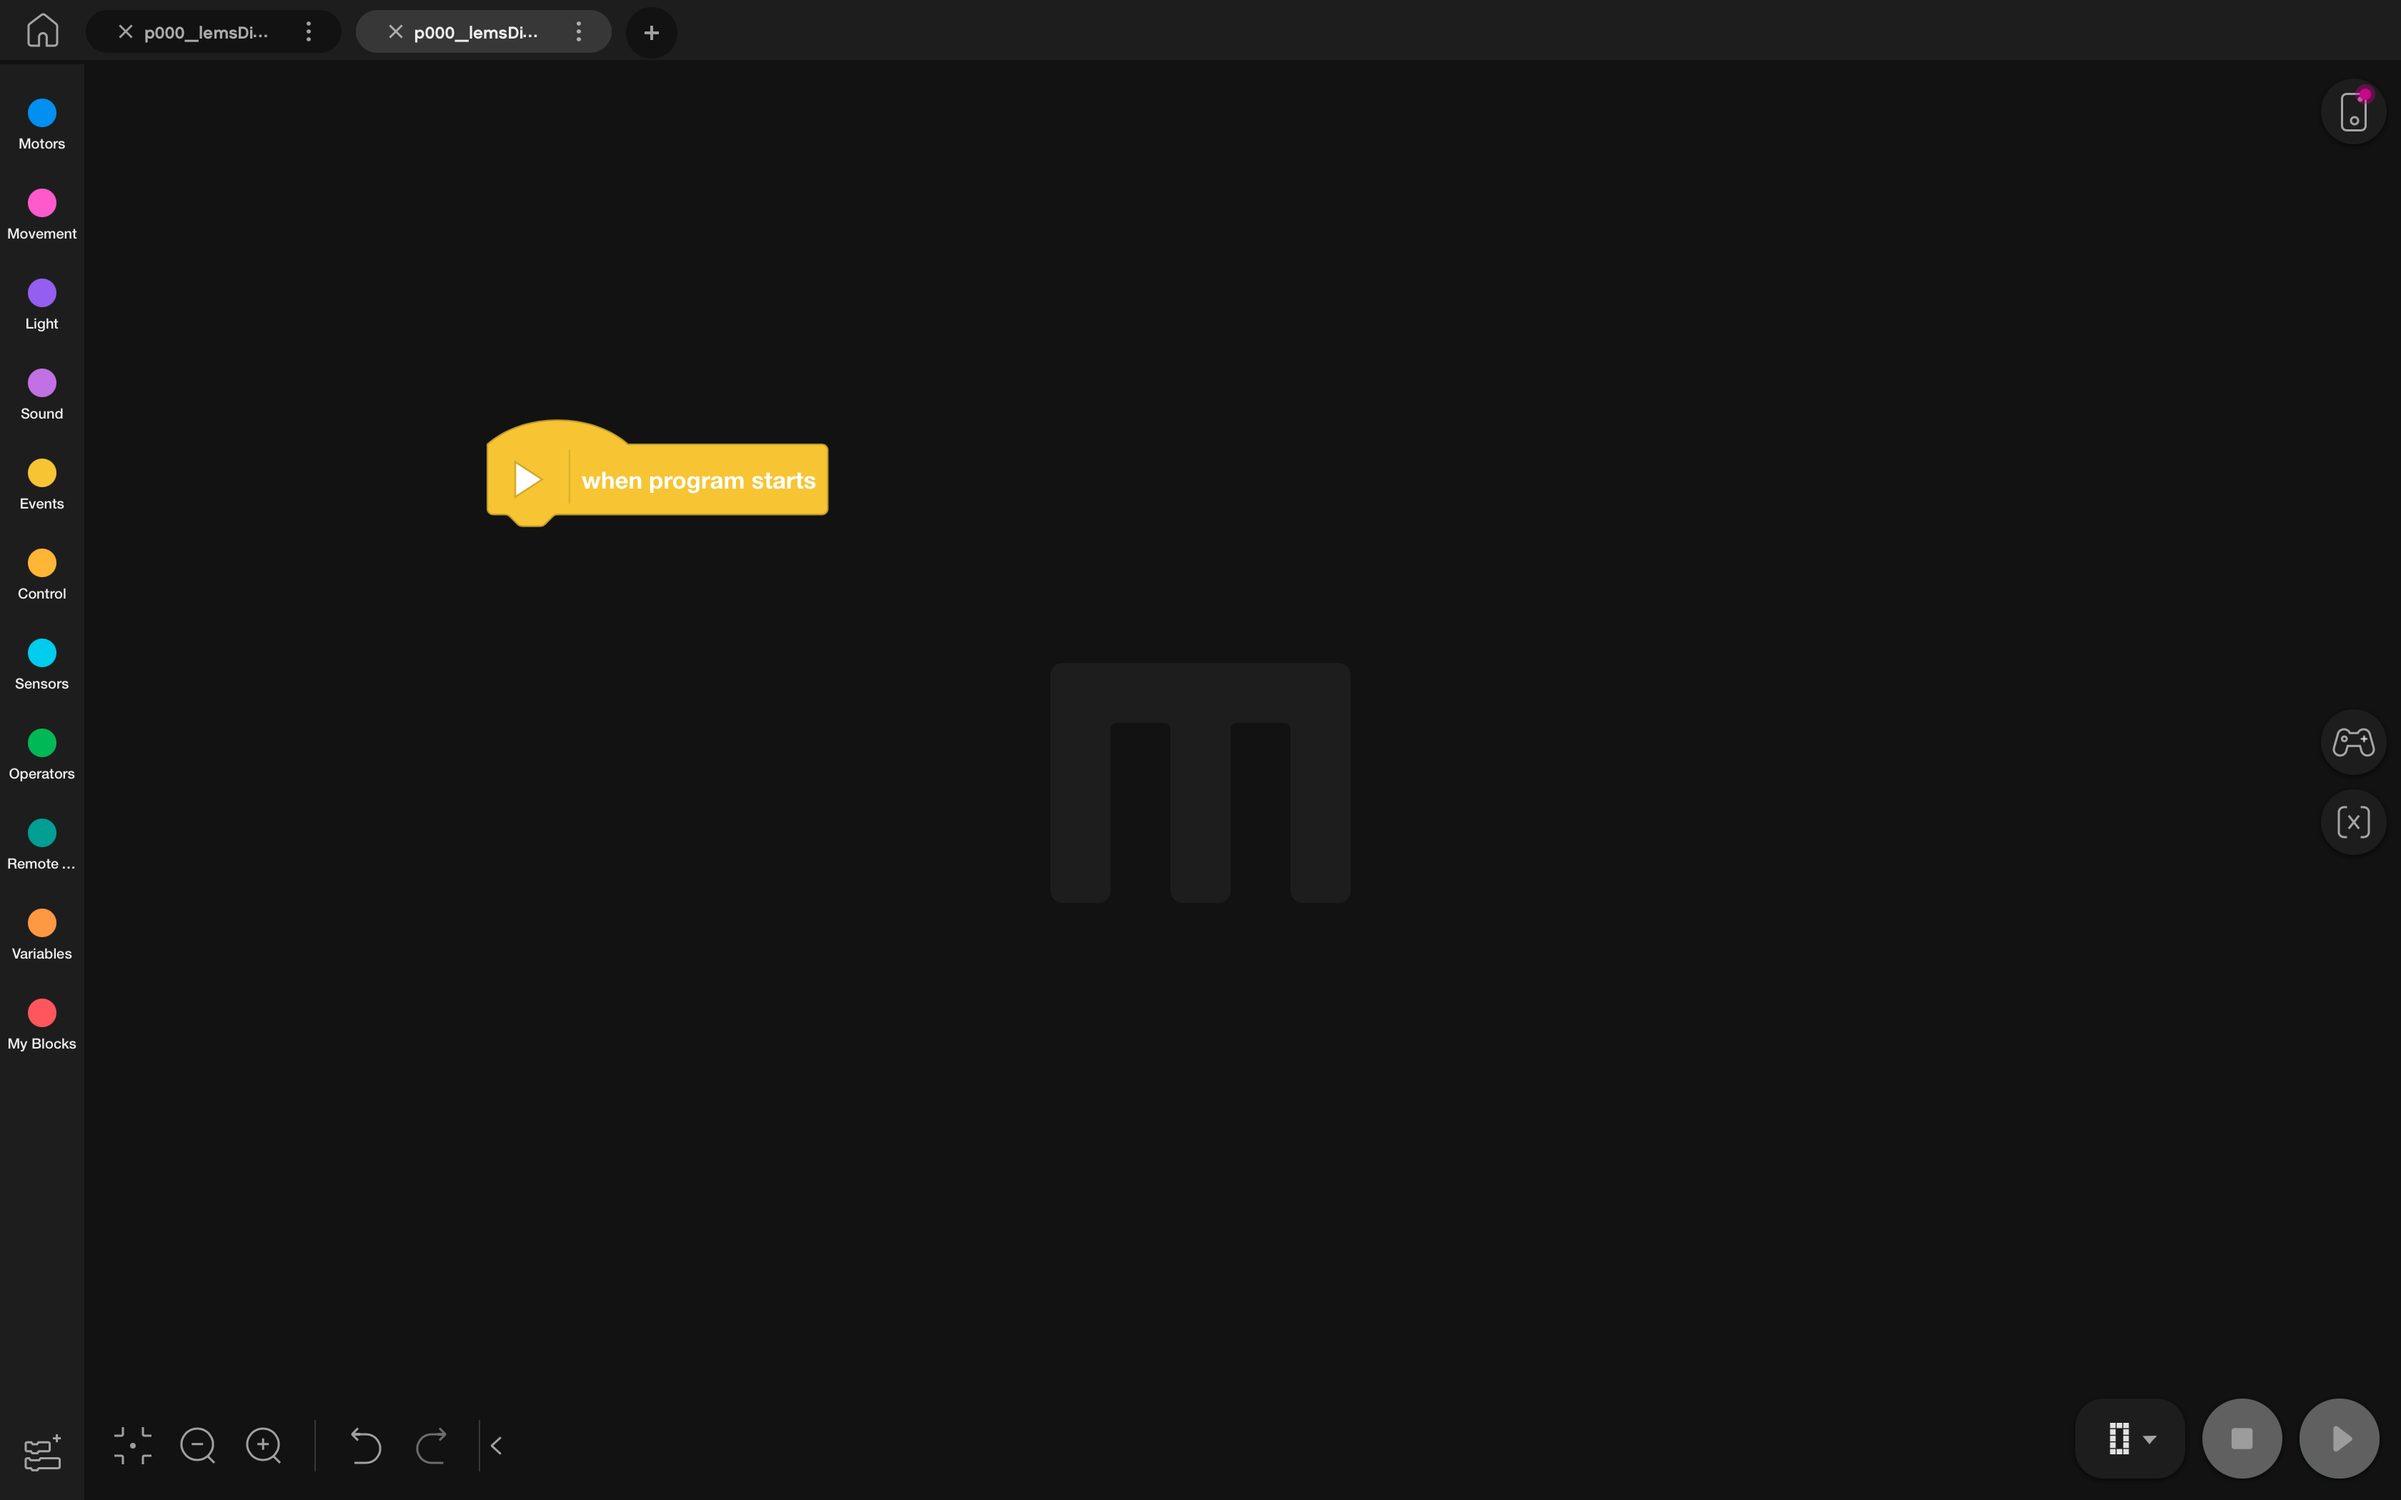
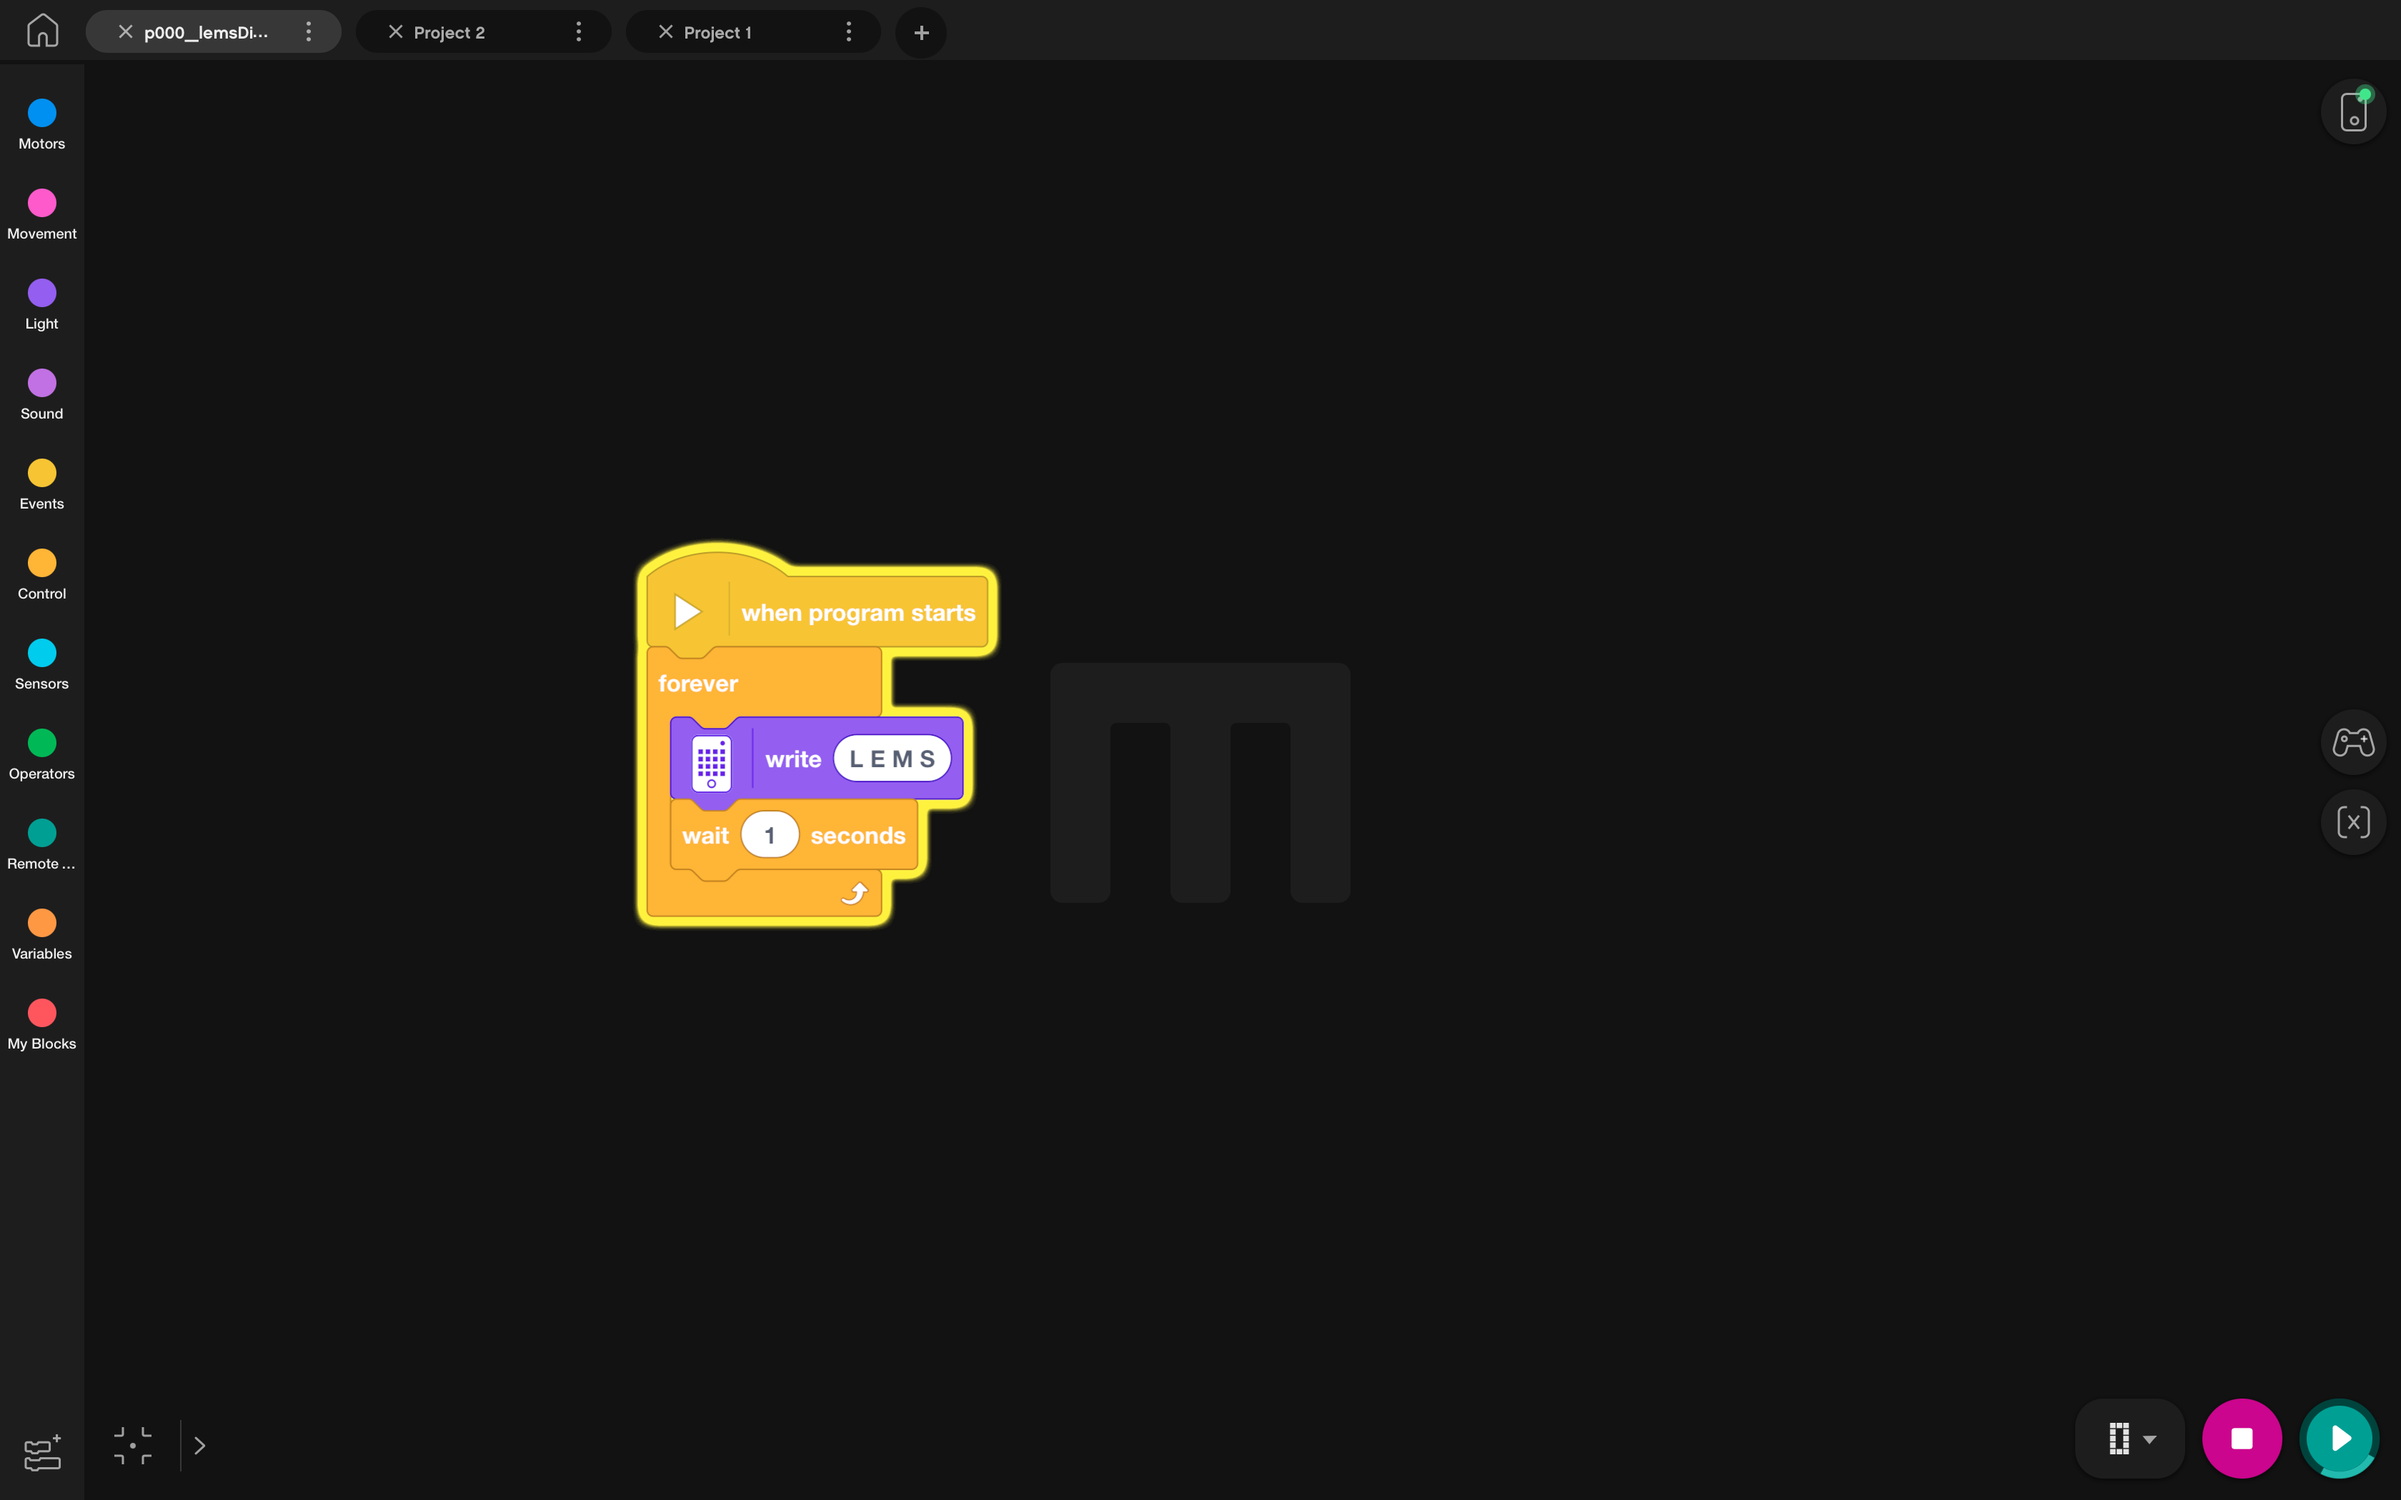
modify : function test done.

Changed region(s): [[0.1875, 0.2786, 0.4375, 0.619], [0.0312, 0.0, 0.3125, 0.0619], [0.9062, 0.9286, 1.0, 0.9905]]

diff --git a/python/p000_lemsDisplay_py.py b/python/p000_lemsDisplay_py.py
@@ -10,3 +10,7 @@ hub = MSHub()
 
 # Write your program here.
 hub.speaker.beep()
+
+while 1:
+    hub.light_matrix.write('L E M S')
+    wait_for_seconds(1)
